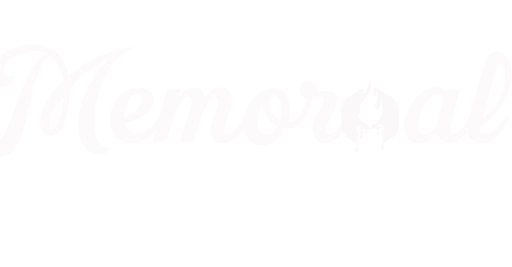
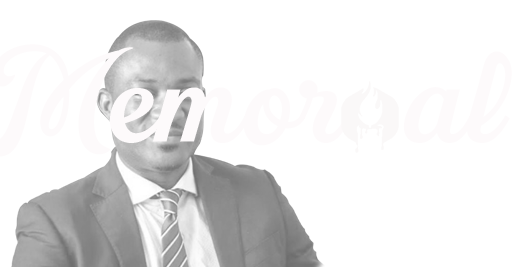
Add files via upload

Changed region(s): [[0.0, 0.0599, 0.6562, 1.0]]

diff --git a/index.html b/index.html
@@ -52,7 +52,7 @@
                 <div class="s-header__logo">
                     <a class="logo" href="#">
                         <div class="new">
-                            <img src="images/unamed.png" alt="Logo" width="600" height="700">
+                            <img src="images/king.png" alt="Logo" width="600" height="700">
                     </div>
                     </a>
                 </div>
@@ -303,14 +303,14 @@
                 <div class="column">
                     <div class="folio-item" data-animate-el>
                         <div class="folio-item__thumb">
-                            <a class="folio-item__thumb-link" href="images/2.jpg" title="The Red Wheel" data-size="1050x700">
-                                <img src="images/portfolio/tulips.jpg" 
-                                     srcset="images/2.jpg 1x, images/2.jpg 2x" alt="">
+                            <a class="folio-item__thumb-link" href="images/1.jpg" title="#" data-size="1050x700">
+                                <img src="images/1.jpg" 
+                                     srcset="images/1.jpg 1x, images/1.jpg 2x" alt="">
                             </a>
                         </div>
                         <div class="folio-item__info">
-                            <div class="folio-item__cat">Branding</div>
-                            <h4 class="folio-item__title">Coffee & Tulips</h4>
+                            <div class="folio-item__cat">Emmanuel's Memorial</div>
+                            <h4 class="folio-item__title">Humble</h4>
                         </div>
                         <!-- <a href="https://www.behance.net/" title="Project Link" class="folio-item__project-link">Project Link</a> -->
                         <div class="folio-item__caption">
@@ -321,14 +321,14 @@
                 <div class="column">
                     <div class="folio-item" data-animate-el>
                         <div class="folio-item__thumb">
-                            <a class="folio-item__thumb-link" href="images/2.jpg" title="Music Life" data-size="1050x700">
+                            <a class="folio-item__thumb-link" href="images/2.jpg" title="#" data-size="1050x700">
                                 <img src="images/2.jpg" 
                                      srcset="images/2.jpg 1x, images/2.jpg 2x" alt="">
                             </a>
                         </div>
                         <div class="folio-item__info">
-                            <div class="folio-item__cat">Frontend Design</div>
-                            <h4 class="folio-item__title">Minimalismo</h4>
+                            <div class="folio-item__cat">Emmanuel's Memorial</div>
+                            <h4 class="folio-item__title">Peaceful</h4>
                         </div>
                         <!-- <a href="https://www.behance.net/" title="Project Link" class="folio-item__project-link">Project Link</a> -->
                         <div class="folio-item__caption">
@@ -339,14 +339,14 @@
                 <div class="column">
                     <div class="folio-item" data-animate-el>
                         <div class="folio-item__thumb">
-                            <a class="folio-item__thumb-link" href="images/2.jpg" Title="OI Logo" data-size="1050x700">
-                                <img src="images/2.jpg" 
-                                     srcset="images/2.jpg 1x, images/2.jpg 2x" alt="">
+                            <a class="folio-item__thumb-link" href="images/3.jpg" Title="#" data-size="1050x700">
+                                <img src="images/3.jpg" 
+                                     srcset="images/3.jpg 1x, images/3.jpg 2x" alt="">
                             </a>
                         </div>
                         <div class="folio-item__info">
-                            <div class="folio-item__cat">Product Design</div>
-                            <h4 class="folio-item__title">Skaterboy</h4>
+                            <div class="folio-item__cat">Emmanuel's Memorial</div>
+                            <h4 class="folio-item__title">Repecful</h4>
                         </div>
                         <!-- <a href="https://www.behance.net/" title="Project Link" class="folio-item__project-link">Project Link</a> -->
                         <div class="folio-item__caption">
@@ -357,14 +357,14 @@
                 <div class="column">
                     <div class="folio-item" data-animate-el>
                         <div class="folio-item__thumb">
-                            <a class="folio-item__thumb-link" href="images/2.jpg" title="Corrugated Sheets" data-size="1050x700">
+                            <a class="folio-item__thumb-link" href="images/2.jpg" title="#" data-size="1050x700">
                                 <img src="images/2.jpg" 
                                      srcset="images/2.jpg 1x, images/2.jpg 2x" alt="">
                             </a>
                         </div>
                         <div class="folio-item__info">
-                            <div class="folio-item__cat">Frontend Design</div>
-                            <h4 class="folio-item__title">Rucksack</h4>
+                            <div class="folio-item__cat">Emmanuel's Memorial</div>
+                            <h4 class="folio-item__title">Calm</h4>
                         </div>
                         <!-- <a href="https://www.behance.net/" title="Project Link" class="folio-item__project-link">Project Link</a> -->
                         <div class="folio-item__caption">
@@ -375,14 +375,14 @@
                 <div class="column">
                     <div class="folio-item" data-animate-el>
                         <div class="folio-item__thumb">
-                            <a class="folio-item__thumb-link" href="images/2.jpg" title="Sand Dunes" data-size="1050x700">
+                            <a class="folio-item__thumb-link" href="images/2.jpg" title="#" data-size="1050x700">
                                 <img src="images/2.jpg" 
                                      srcset="images/2.jpg 1x, images/2.jpg 2x" alt="">
                             </a>
                         </div>
                         <div class="folio-item__info">
-                            <div class="folio-item__cat">E-Commerce</div>
-                            <h4 class="folio-item__title">Wooocraft</h4>
+                            <div class="folio-item__cat">Emmanuel's Memorial</div>
+                            <h4 class="folio-item__title">Happy</h4>
                         </div>
                         <!-- <a href="https://www.behance.net/" title="Project Link" class="folio-item__project-link">
                             Project Link
@@ -395,14 +395,14 @@
                 <div class="column">
                     <div class="folio-item" data-animate-el>
                         <div class="folio-item__thumb">
-                            <a class="folio-item__thumb-link" href="images/2.jpg" title="The Lamp" data-size="1050x700">
+                            <a class="folio-item__thumb-link" href="images/2.jpg" title="#" data-size="1050x700">
                                 <img src="images/2.jpg" 
                                      srcset="images/2.jpg 1x, images/2.jpg 2x" alt="">
                             </a>
                         </div>
                         <div class="folio-item__info">
-                            <div class="folio-item__cat">Product Design</div>
-                            <h4 class="folio-item__title">The Lamp</h4>
+                            <div class="folio-item__cat">Emmanuel's Memorial</div>
+                            <h4 class="folio-item__title">Helpful</h4>
                         </div>
                         <!-- <a href="https://www.behance.net/" title="Project Link" class="folio-item__project-link">Project Link</a> -->
                         <div class="folio-item__caption">
@@ -413,14 +413,14 @@
                 <div class="column">
                     <div class="folio-item" data-animate-el>
                         <div class="folio-item__thumb">
-                            <a class="folio-item__thumb-link" href="images/2.jpg" title="The Lamp" data-size="1050x700">
+                            <a class="folio-item__thumb-link" href="images/2.jpg" title="#" data-size="1050x700">
                                 <img src="images/2.jpg" 
                                      srcset="images/2.jpg 1x, images/2.jpg 2x" alt="">
                             </a>
                         </div>
                         <div class="folio-item__info">
-                            <div class="folio-item__cat">Frontend Design</div>
-                            <h4 class="folio-item__title">Grayscale</h4>
+                            <div class="folio-item__cat">Emmanuel's Memorial</div>
+                            <h4 class="folio-item__title">Trustworthy</h4>
                         </div>
                         <!-- <a href="https://www.behance.net/" title="Project Link" class="folio-item__project-link">Project Link</a> -->
                         <div class="folio-item__caption">
@@ -431,14 +431,14 @@
                 <div class="column">
                     <div class="folio-item" data-animate-el>
                         <div class="folio-item__thumb">
-                            <a class="folio-item__thumb-link" href="images/2.jpg" title="The Red Wheel" data-size="1050x700">
+                            <a class="folio-item__thumb-link" href="images/2.jpg" title="#" data-size="1050x700">
                                 <img src="images/2.jpg" 
                                      srcset="images/2.jpg 1x, images/2.jpg 2x" alt="">
                             </a>
                         </div>
                         <div class="folio-item__info">
-                            <div class="folio-item__cat">Branding</div>
-                            <h4 class="folio-item__title">Lady Shutterbug</h4>
+                            <div class="folio-item__cat">Emmanuel's Memorial</div>
+                            <h4 class="folio-item__title">Visionary</h4>
                         </div>
                         <!-- <a href="https://www.behance.net/" title="Project Link" class="folio-item__project-link">Project Link</a> -->
                         <div class="folio-item__caption">
@@ -449,14 +449,14 @@
                 <div class="column">
                     <div class="folio-item" data-animate-el>
                         <div class="folio-item__thumb">
-                            <a class="folio-item__thumb-link" href="images/2.jpg" title="The Lamp" data-size="1050x700">
+                            <a class="folio-item__thumb-link" href="images/2.jpg" title="#" data-size="1050x700">
                                 <img src="images/2.jpg" 
                                      srcset="images/2.jpg 1x, images/2.jpg 2x" alt="">
                             </a>
                         </div>
                         <div class="folio-item__info">
-                            <div class="folio-item__cat">Frontend Design</div>
-                            <h4 class="folio-item__title">Retro Cam</h4>
+                            <div class="folio-item__cat">Emmanuel's Memorial</div>
+                            <h4 class="folio-item__title">Leader</h4>
                         </div>
                         <!-- <a href="https://www.behance.net/" title="Project Link" class="folio-item__project-link">Project Link</a> -->
                         <div class="folio-item__caption">
@@ -595,9 +595,9 @@
                 <div class="column lg-12">
                     <h3 class="text-pretitle">End</h3>
                     <h1 class="text-display-title">
-                        Rest In Perfect Peace <br>
-                        Dayie...
+                        Rest In Power
                     </h1>
+                    <p>Dayie...</p>
                 </div>
             </div>
 
@@ -612,10 +612,21 @@
                             
                             Write A Tribute
                         </a>
-                    </div> -
+                        <div class="social" style="align-items: center; text-decoration: none; list-style-type: none;"> 
+                            <br>
+                            <p>Stream Service ... </p>
+                            <ul class="contact-icons color1">
+                                <li class="icon brands fa-facebook-f"><a href="#" target="_blank">Zoom</a></li>
+                                <li class="icon brands fa-zoom"><a href="h#" target="_blank">Facebook</a></li>
+                                <!-- <li class="icon brands fa-snapchat-ghost"><a href="#">@untitled-tld</a></li> -->
+                                <!-- <li class="icon brands fa-instagram"><a href="https://www.instagram.com/danquah_bryan/" target="_blank">@danquah_bryan</a></li> -->
+                                <!-- <li class="icon brands fa-phone"><a href="tel:0208240322"></a></li> -->
+                            </ul>
+                        </div>
+                    </div> 
                 </div>
             </div>
-
+         
             <footer class="s-footer">
 
                 <!-- <div class="row s-footer__top">
@@ -655,7 +666,7 @@
                 <div class="row s-footer__bottom">
                     <div class="column ss-copyright">
                         <span>© Copyright 2021</span> 
-                        <span>Site by <a href="https://bryan-me.github.io/personalpage.com/" target="_blank">Jo</a></span>
+                        <span>Site by <a href="https://bryan-me.github.io/info.com/" target="_blank">Jo</a></span>
                     </div>
 
                     <div class="ss-go-top">
